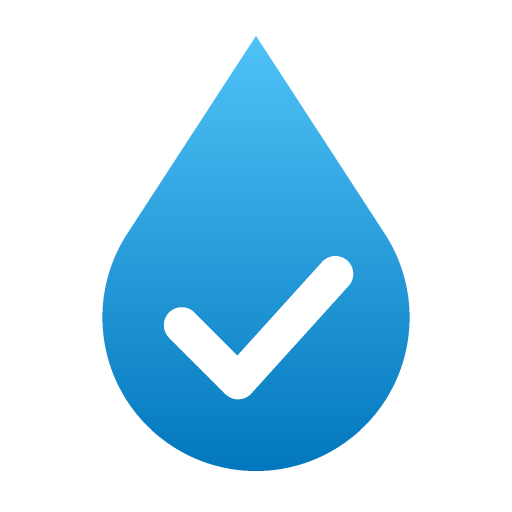
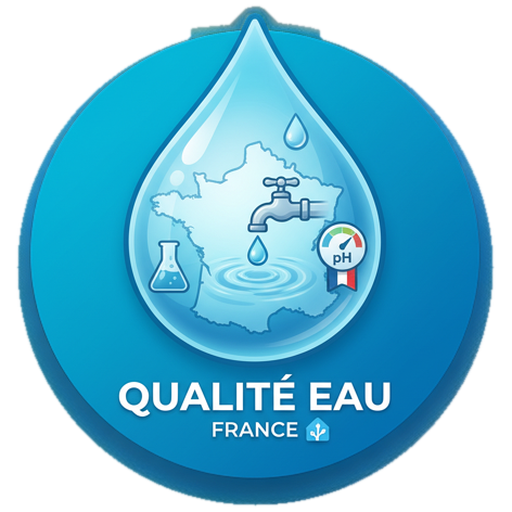
feat(api): nouvelle icône de l'intégration (#3)
Claude-Session: https://claude.ai/code/session_01CSixJnFf4qBMac7uTfNvnW

diff --git a/.github/release-notes/v1.1.0b2.md b/.github/release-notes/v1.1.0b2.md
@@ -1,0 +1,17 @@
+## Prélèvements de ma commune
+
+Pré-version. Merci à [alju](https://forum.hacf.fr/u/alju) pour l'idée, sur le [forum HACF](https://forum.hacf.fr/t/suivi-de-la-qualite-de-leau-en-france/85720).
+
+### Nouveautés
+
+- **Nouvelle icône** (goutte d'eau avec la carte de France, le robinet et le pH) : dans Home Assistant (Appareils et services), dans le Marketplace / HACS, dans le README et sur la démo.
+- **Option « Seulement les prélèvements faits à … »** (Paramètres › Appareils et services › Qualité de l'eau (Orobnat) › Configurer). Un réseau dessert souvent plusieurs communes, et l'ARS prélève tour à tour dans chacune : le dernier bulletin du réseau peut venir d'une commune voisine. Avec l'option, l'intégration remonte les bulletins précédents jusqu'au dernier prélèvement fait dans votre commune (20 bulletins et 2 ans au plus). Sinon, elle garde le dernier bulletin du réseau.
+- Nouveaux attributs du capteur de conformité : `bulletins_remontes` et `prelevement_dans_la_commune`.
+
+Sans l'option, rien ne change.
+
+### À faire
+
+- **Rien** : mise à jour par le Marketplace (ou HACS avant la 2026.11), puis redémarrage de Home Assistant. Pour activer l'option : **Configurer** sur l'intégration.
+
+Retours et bugs : [Issues GitHub](https://github.com/Marlboro62/ha-qualite-eau/issues).
